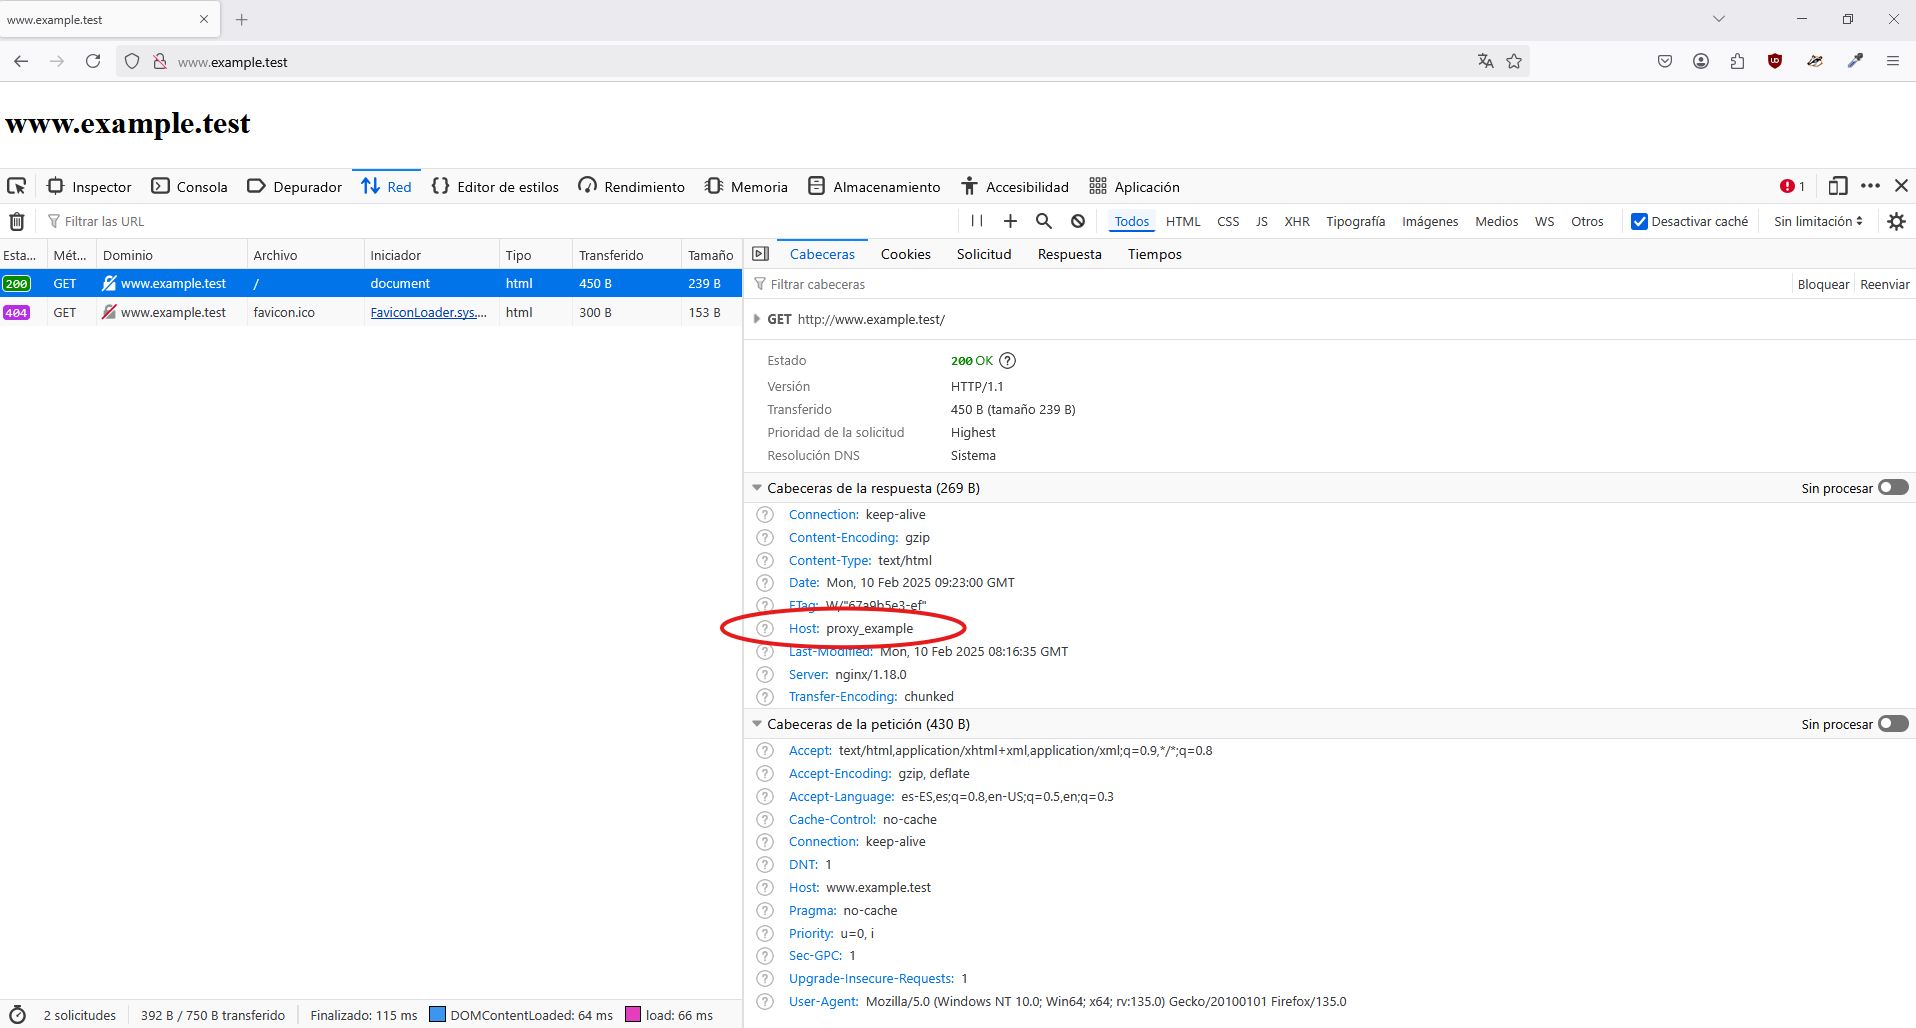
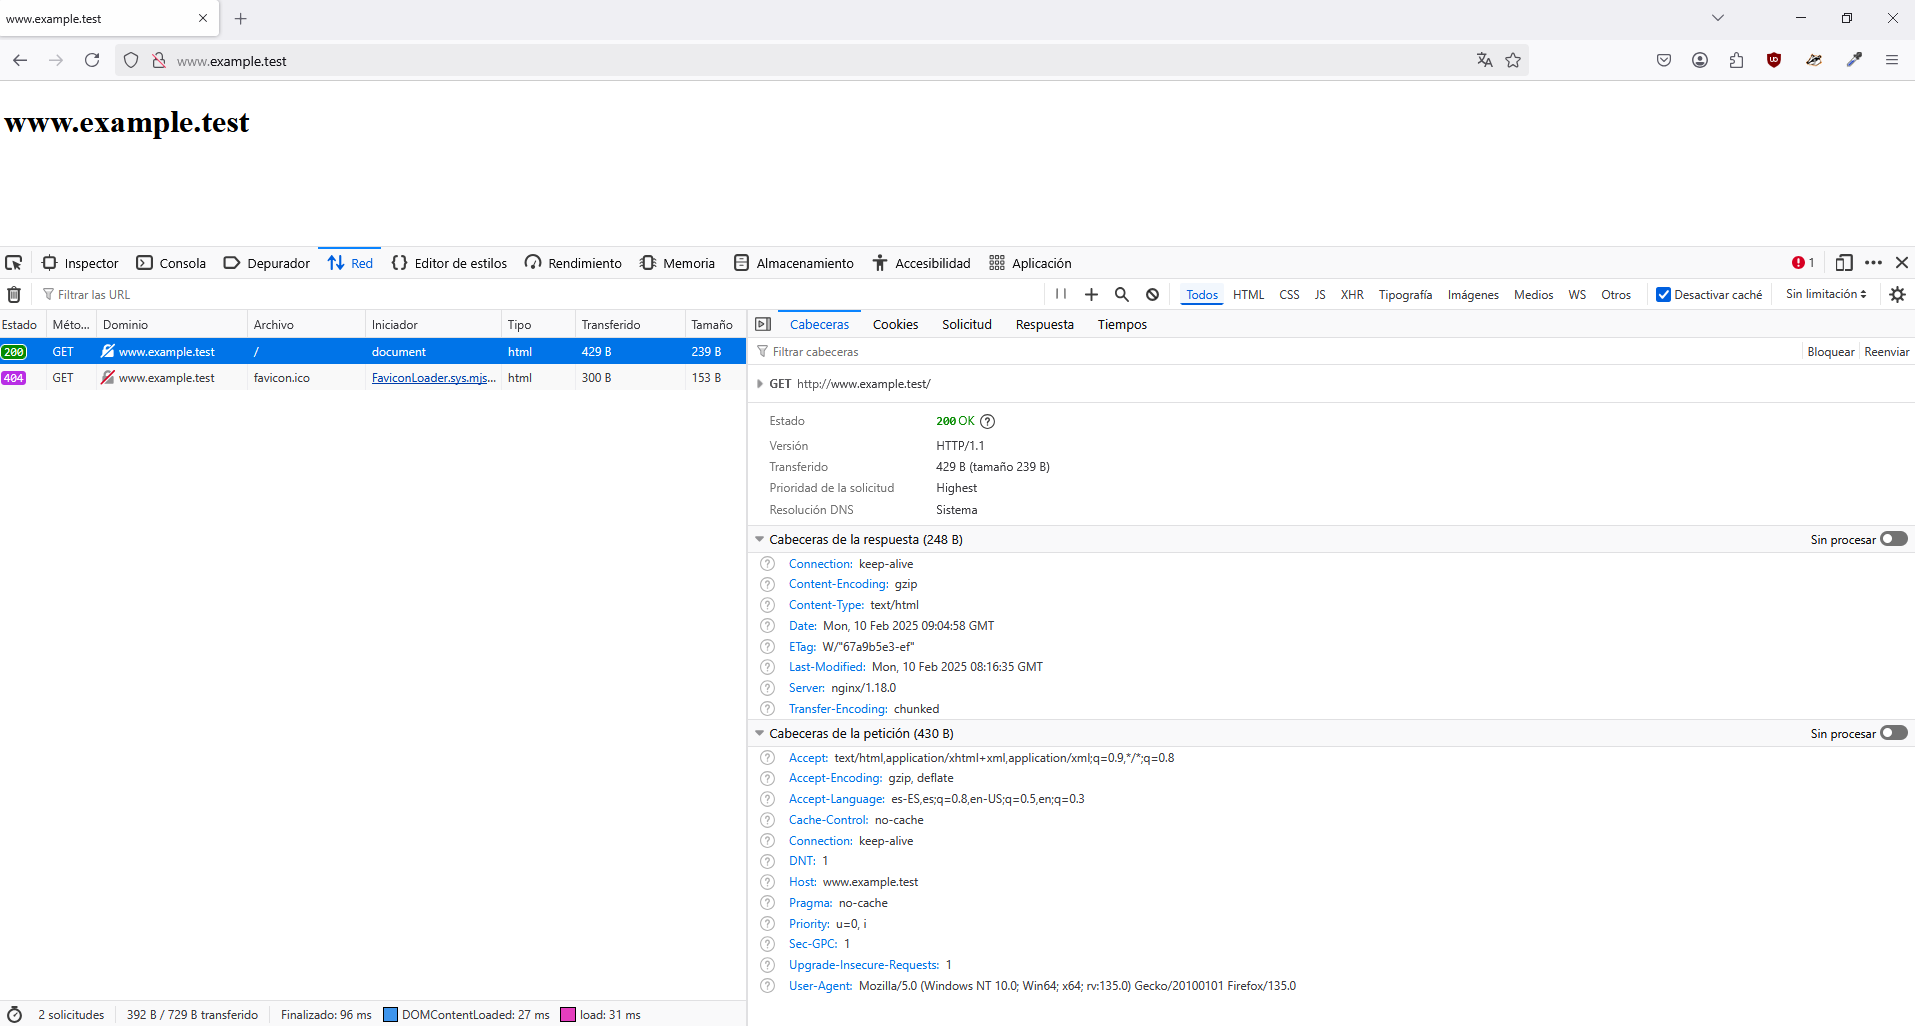
Cabeceras

diff --git a/README.md b/README.md
@@ -42,7 +42,8 @@ end
 
 `vagrant up`
 
-En el caso de la máquina *web* solo aparecerá el adaptador de red nat y en la máquina *proxy* habrá dos.
+En el caso de la máquina *web* solo aparecerá el adaptador de red nat y en la máquina *proxy* habrá dos.  
+Si pregunta *"Which interface should the network bridge to?"*, se escogerá la opción *Ethernet Connection*.
 
 ## Configuración de la máquina web
 
@@ -86,6 +87,8 @@ Instalación de curl:
 Se prueba el curl:  
 `curl http://localhost:8080`  
 `curl http://w1.example.test:8080`
+
+<img src="./files/imgs/1.png">
 
 ## Configuración del proxy
 
@@ -133,10 +136,10 @@ Se reinicia el servicio:
 `sudo systemctl restart nginx`
 
 En la parte de cliente Windows habría que editar el fichero *C:\Windows\System32\drivers\etc\hosts* añadiendo la siguiente línea:  
-`10.108.55.1 www.example.test`  
-(En este caso es la dirección ip pública que se genera con la máquina, se mantiene solo un tiempo)
+`10.108.69.1 www.example.test`  
+(En este caso es la dirección ip pública que se genera con la máquina *proxy*, se mantiene solo un tiempo)
 
-<img src="./files/imgs/1.png">
+<img src="./files/imgs/2.png">
 
 ## Heramientas de desarrollador
 
@@ -145,7 +148,7 @@ Ver el tráfico:
 `vagrant ssh -c "sudo tail /var/log/nginx/access.log" proxy`
 
 Desde las herramientas de desarrollador del navegador, en *Red*, se habilita la opción *Desactivar caché*:  
-<img src="./files/imgs/2.png">
+<img src="./files/imgs/3.png">
 
 ## Añadir cabeceras al proxy inverso
 
@@ -153,10 +156,24 @@ Desde las herramientas de desarrollador del navegador, en *Red*, se habilita la 
 
 `sudo nano /etc/nginx/sites-enabled/default`  
 En *location* se añade:  
-`add_header Host proxy_example;`  
+`add_header X-friend acarmar;`  
 proxy_set_header Host $host;
 
 Se reinicia el servicio:  
 `sudo systemctl restart nginx`
 
-<img src="./files/imgs/3.png">
+<img src="./files/imgs/4.png">
+
+## Añadir cabeceras al servidor web
+
+`vagrant ssh web`
+
+`sudo nano /etc/nginx/sites-enabled/default`  
+En *location* se añade:  
+`add_header Host w1.example.test;`  
+proxy_set_header Host $host;
+
+Se reinicia el servicio:  
+`sudo systemctl restart nginx`
+
+<img src="./files/imgs/5.png">
